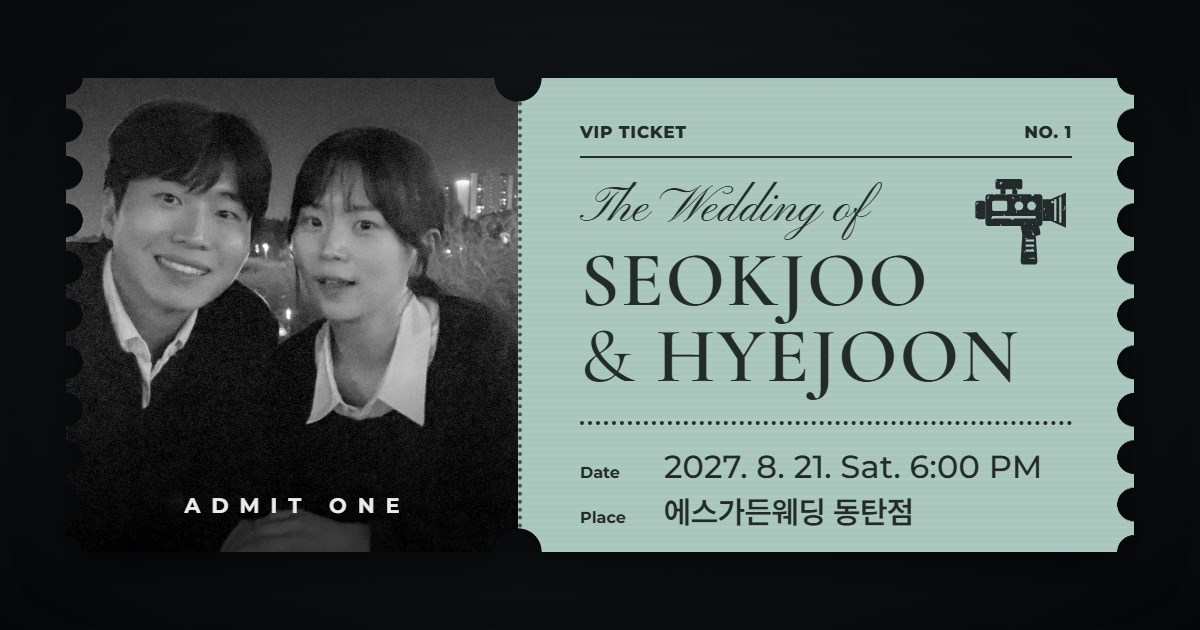
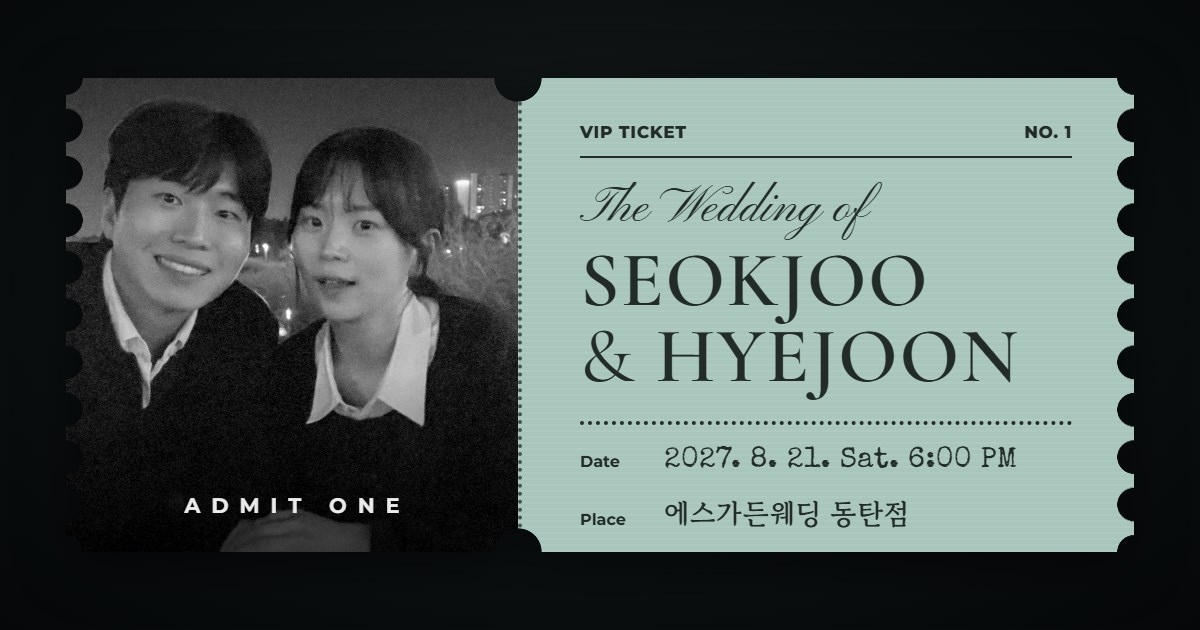
Add files via upload

diff --git a/index.html b/index.html
@@ -13,7 +13,7 @@
   <meta property="og:type" content="website">
   <meta property="og:title" content="석주 ෆ 혜준 결혼합니다">
   <meta property="og:description" content="2027. 8. 21. 토요일 오후 6시 · 에스가든웨딩 동탄점">
-  <meta property="og:image" content="https://sj-hj-wedding.github.io/images/og-ticket.jpg">
+  <meta property="og:image" content="https://sj-hj-wedding.github.io/images/og-ticket.jpg?v=2">
   <meta property="og:image:width" content="1200">
   <meta property="og:image:height" content="630">
   <meta property="og:url" content="https://sj-hj-wedding.github.io/">
@@ -21,7 +21,7 @@
   <meta name="twitter:card" content="summary_large_image">
   <meta name="twitter:title" content="석주 ෆ 혜준 결혼합니다">
   <meta name="twitter:description" content="2027. 8. 21. 토요일 오후 6시 · 에스가든웨딩 동탄점">
-  <meta name="twitter:image" content="https://sj-hj-wedding.github.io/images/og-ticket.jpg">
+  <meta name="twitter:image" content="https://sj-hj-wedding.github.io/images/og-ticket.jpg?v=2">
 
   <!-- Fonts: Montserrat(영문) / Cormorant Garamond + Pinyon Script(타이틀) / Six Caps(포스터) / Pretendard(한글) -->
   <link rel="preconnect" href="https://fonts.googleapis.com">

diff --git a/script.js b/script.js
@@ -13,7 +13,7 @@
   const SITE_URL        = 'https://sj-hj-wedding.github.io/';
   const SHARE_TITLE     = '석주 ෆ 혜준 결혼합니다';
   const SHARE_DESC      = '2027. 8. 21. 토요일 오후 6시\n에스가든웨딩 동탄점';
-  const SHARE_IMAGE     = SITE_URL + 'images/og-ticket.jpg'; // 카톡 카드 이미지 (티켓 모양, 1200 × 630)
+  const SHARE_IMAGE     = SITE_URL + 'images/og-ticket.jpg?v=2'; // 카톡 카드 이미지 (티켓 모양, 1200 × 630)
   const SHARE_IMAGE_W   = 1200;
   const SHARE_IMAGE_H   = 630;
   const VENUE_NAME      = '에스가든웨딩 동탄점';
